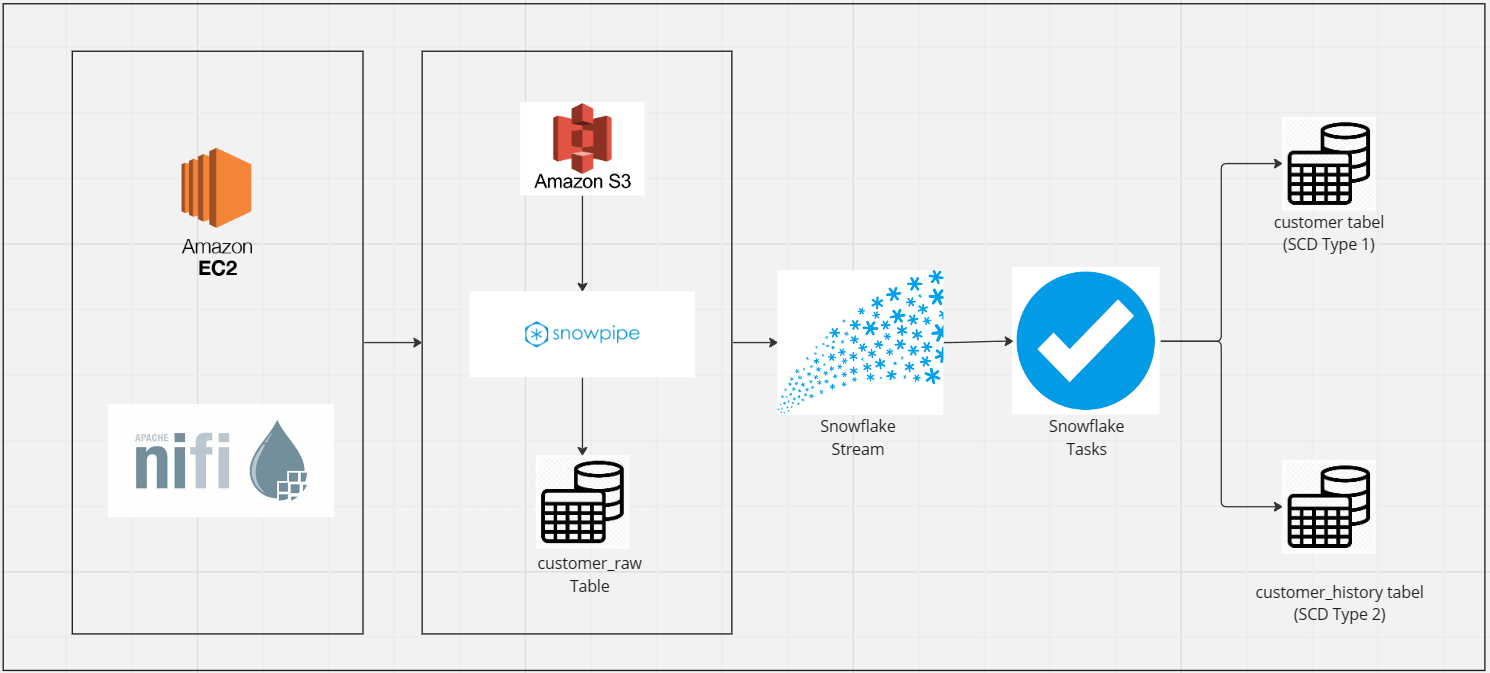
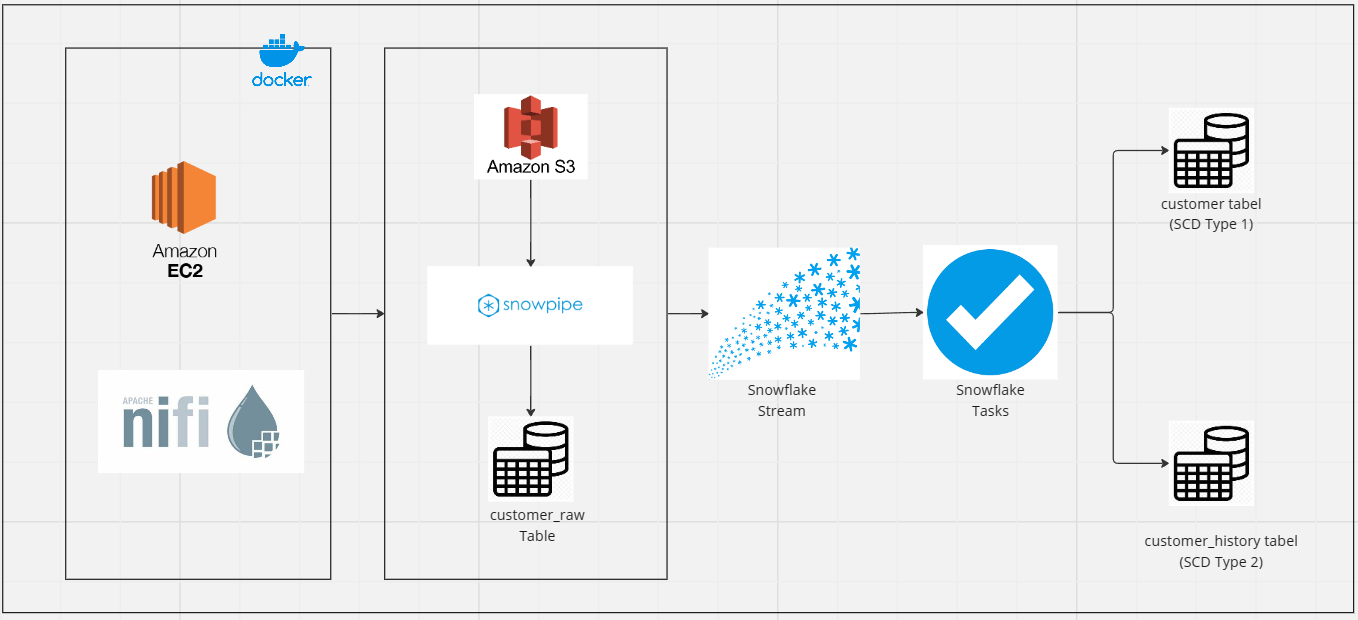
updated arch diagram

diff --git a/README.md b/README.md
@@ -28,3 +28,45 @@ The project is aimed to stream data in real time using Apache NiFi, AWS and Snow
 - Extensibility: Custom processors can be developed if needed 
 
 
+### Docker: 
+
+##### Docker Images:
+- Simple Explanation: It's like a blueprint or a recipe.
+- Details: An image is a lightweight, stand-alone package that contains everything needed to run a piece of
+  software, including the code, runtime, libraries, and other dependencies.
+
+##### Docker Containers:
+- Simple Explanation: This is like a software required to run the Docker Images. It's created from an image.
+- Details: A container is a runnable instance of an image. You can think of it as the live version of the Docker image.
+
+##### Docker Hub:
+- Simple Explanation: It's like a library or store where people share their blueprints (images) so others can use or
+modify them.
+- Details: Docker Hub is a cloud-based registry where you can find and share container images with your team and
+he Docker community.
+
+### AWS EC2 (Elastic Compute Cloud):
+
+##### EC2 Instances:
+
+Simple Explanation: It's like renting a virtual computer on the cloud.
+Details: EC2 (Elastic Compute Cloud) instances are virtual servers provided by Amazon Web Services (AWS). These instances allow users to run applications and services in the cloud, providing scalable compute capacity.
+
+##### EC2 connection:
+- Connection to EC2 instance done using SSH client
+- Navigate to the folder having the .pem file with access keys 
+- Copy and run the SSH client command from AWS
+- Specifications:
+    - t2.xlarge instance
+    - 32GB of storage recommended
+    - Allow ports 4000 - 38888
+    - Connect to ec2 via ssh
+
+    
+
+
+
+
+
+
+
